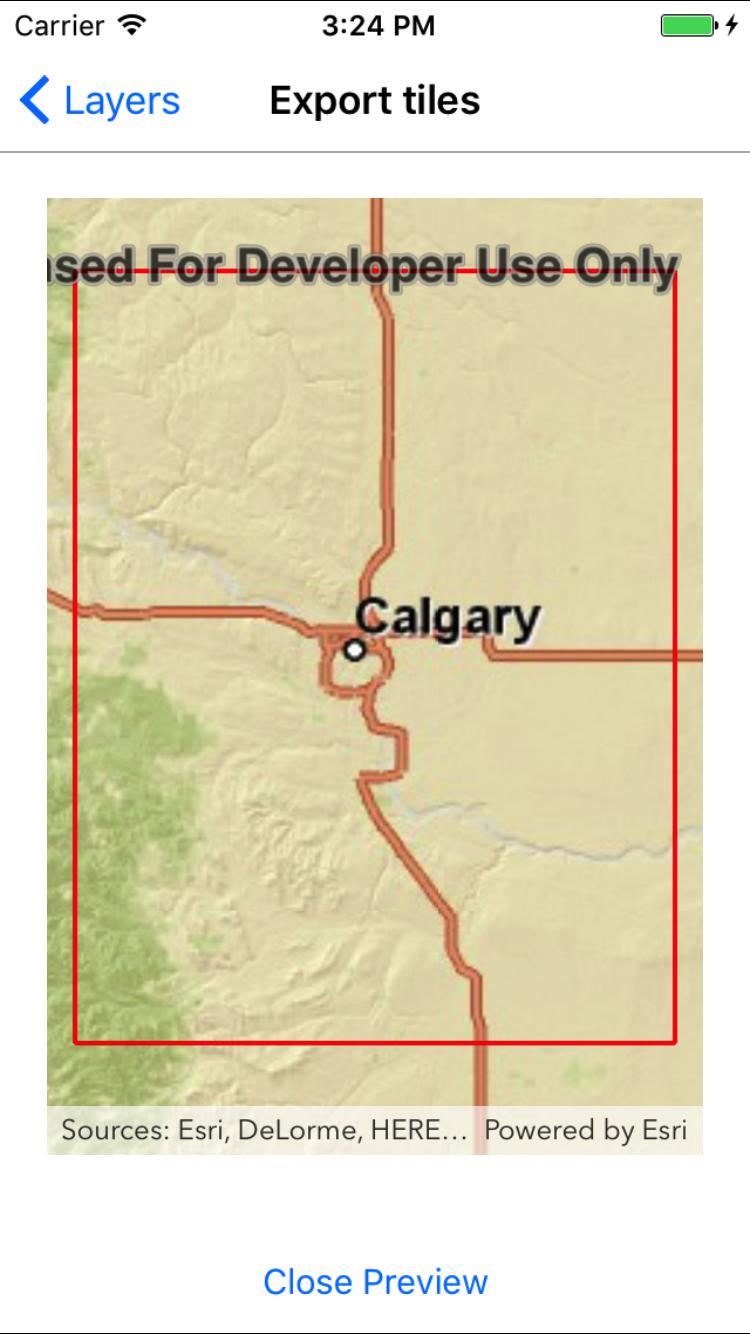
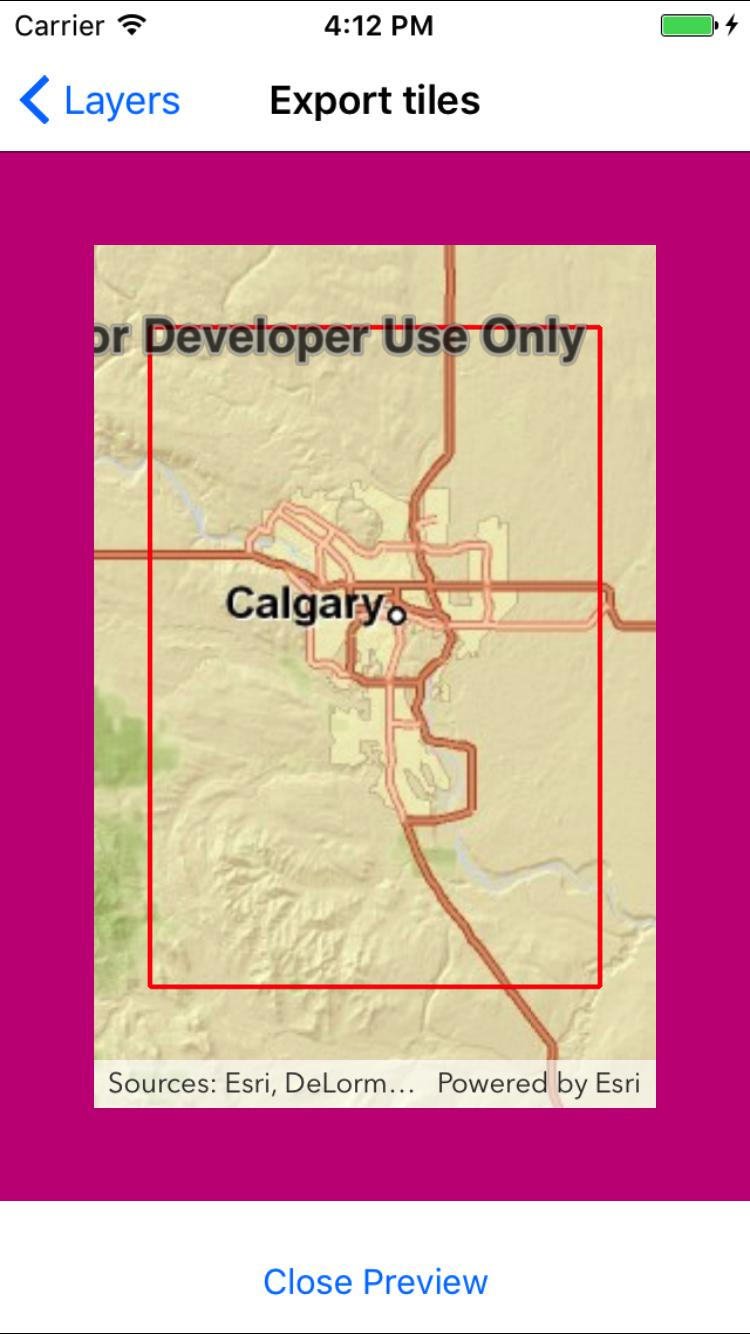
Further UI enhancements
add colored border around preview window in forms; hide export button
when previewing on WPF and UWP.

diff --git a/src/Forms/Shared/Samples/Layers/ExportTiles/ExportTiles.xaml b/src/Forms/Shared/Samples/Layers/ExportTiles/ExportTiles.xaml
@@ -11,7 +11,9 @@
             <RowDefinition Height="auto" />
             <RowDefinition Height="auto" />
         </Grid.RowDefinitions>
-        <esriUI:MapView x:Name="MyMapView" IsVisible="True" Grid.Row="0"/>
+        <Grid Grid.Row="0" BackgroundColor="MediumVioletRed">
+            <esriUI:MapView x:Name="MyMapView" IsVisible="True"/>
+        </Grid>
         <ActivityIndicator x:Name="MyProgressBar" IsVisible="False" Grid.Row="1" IsRunning="True" />
         <Button x:Name="MyExportPreviewButton" Text="Export" Grid.Row="2" Clicked="MyExportPreviewButton_Clicked" />
     </Grid>

diff --git a/src/UWP/ArcGISRuntime.UWP.Samples/Samples/Layers/ExportTiles/ExportTiles.xaml.cs b/src/UWP/ArcGISRuntime.UWP.Samples/Samples/Layers/ExportTiles/ExportTiles.xaml.cs
@@ -207,6 +207,9 @@ namespace ArcGISRuntime.UWP.Samples.ExportTiles
                     // Show the 'close preview' button
                     MyClosePreviewButton.Visibility = Visibility.Visible;
 
+                    // Hide the 'export tiles' button
+                    MyExportButton.Visibility = Visibility.Collapsed;
+
                     // Hide the progress bar
                     MyProgressBar.Visibility = Visibility.Collapsed;
                 });
@@ -267,6 +270,9 @@ namespace ArcGISRuntime.UWP.Samples.ExportTiles
             // Hide the 'close preview' button if not already hidden
             MyClosePreviewButton.Visibility = Visibility.Collapsed;
 
+            // Show the 'export tiles' button
+            MyExportButton.Visibility = Visibility.Visible;
+
             // Start the export
             StartExport();
         }
@@ -288,6 +294,9 @@ namespace ArcGISRuntime.UWP.Samples.ExportTiles
 
             // Hide the 'close preview' button
             MyClosePreviewButton.Visibility = Visibility.Collapsed;
+
+            // Show the 'export tiles' button
+            MyExportButton.Visibility = Visibility.Visible;
         }
     }
 }

diff --git a/src/WPF/ArcGISRuntime.WPF.Samples/Samples/Layers/ExportTiles/ExportTiles.xaml.cs b/src/WPF/ArcGISRuntime.WPF.Samples/Samples/Layers/ExportTiles/ExportTiles.xaml.cs
@@ -203,6 +203,9 @@ namespace ArcGISRuntime.WPF.Samples.ExportTiles
                     // Show the 'close preview' button
                     MyClosePreviewButton.Visibility = Visibility.Visible;
 
+                    // Hide the 'export tiles' button
+                    MyExportButton.Visibility = Visibility.Collapsed;
+
                     // Hide the progress bar
                     MyProgressBar.Visibility = Visibility.Collapsed;
                 });
@@ -263,6 +266,9 @@ namespace ArcGISRuntime.WPF.Samples.ExportTiles
             // Hide the 'close preview' button if not already hidden
             MyClosePreviewButton.Visibility = Visibility.Collapsed;
 
+            // Show the 'export tiles' button
+            MyExportButton.Visibility = Visibility.Visible;
+
             // Start the export
             StartExport();
         }
@@ -283,6 +289,9 @@ namespace ArcGISRuntime.WPF.Samples.ExportTiles
 
             // Hide the close preview button
             MyClosePreviewButton.Visibility = Visibility.Collapsed;
+
+            // Show the 'export tiles' button
+            MyExportButton.Visibility = Visibility.Visible;
         }
     }
 }

diff --git a/src/Forms/Shared/Samples/Layers/ExportTiles/ExportTiles.xaml.cs b/src/Forms/Shared/Samples/Layers/ExportTiles/ExportTiles.xaml.cs
@@ -280,7 +280,7 @@ namespace ArcGISRuntimeXamarin.Samples.ExportTiles
             MyMapView.Map = previewMap;
 
             // Re-size the mapview
-            MyMapView.Margin = new Thickness(20);
+            MyMapView.Margin = new Thickness(40);
         }
 
         /// <summary>
